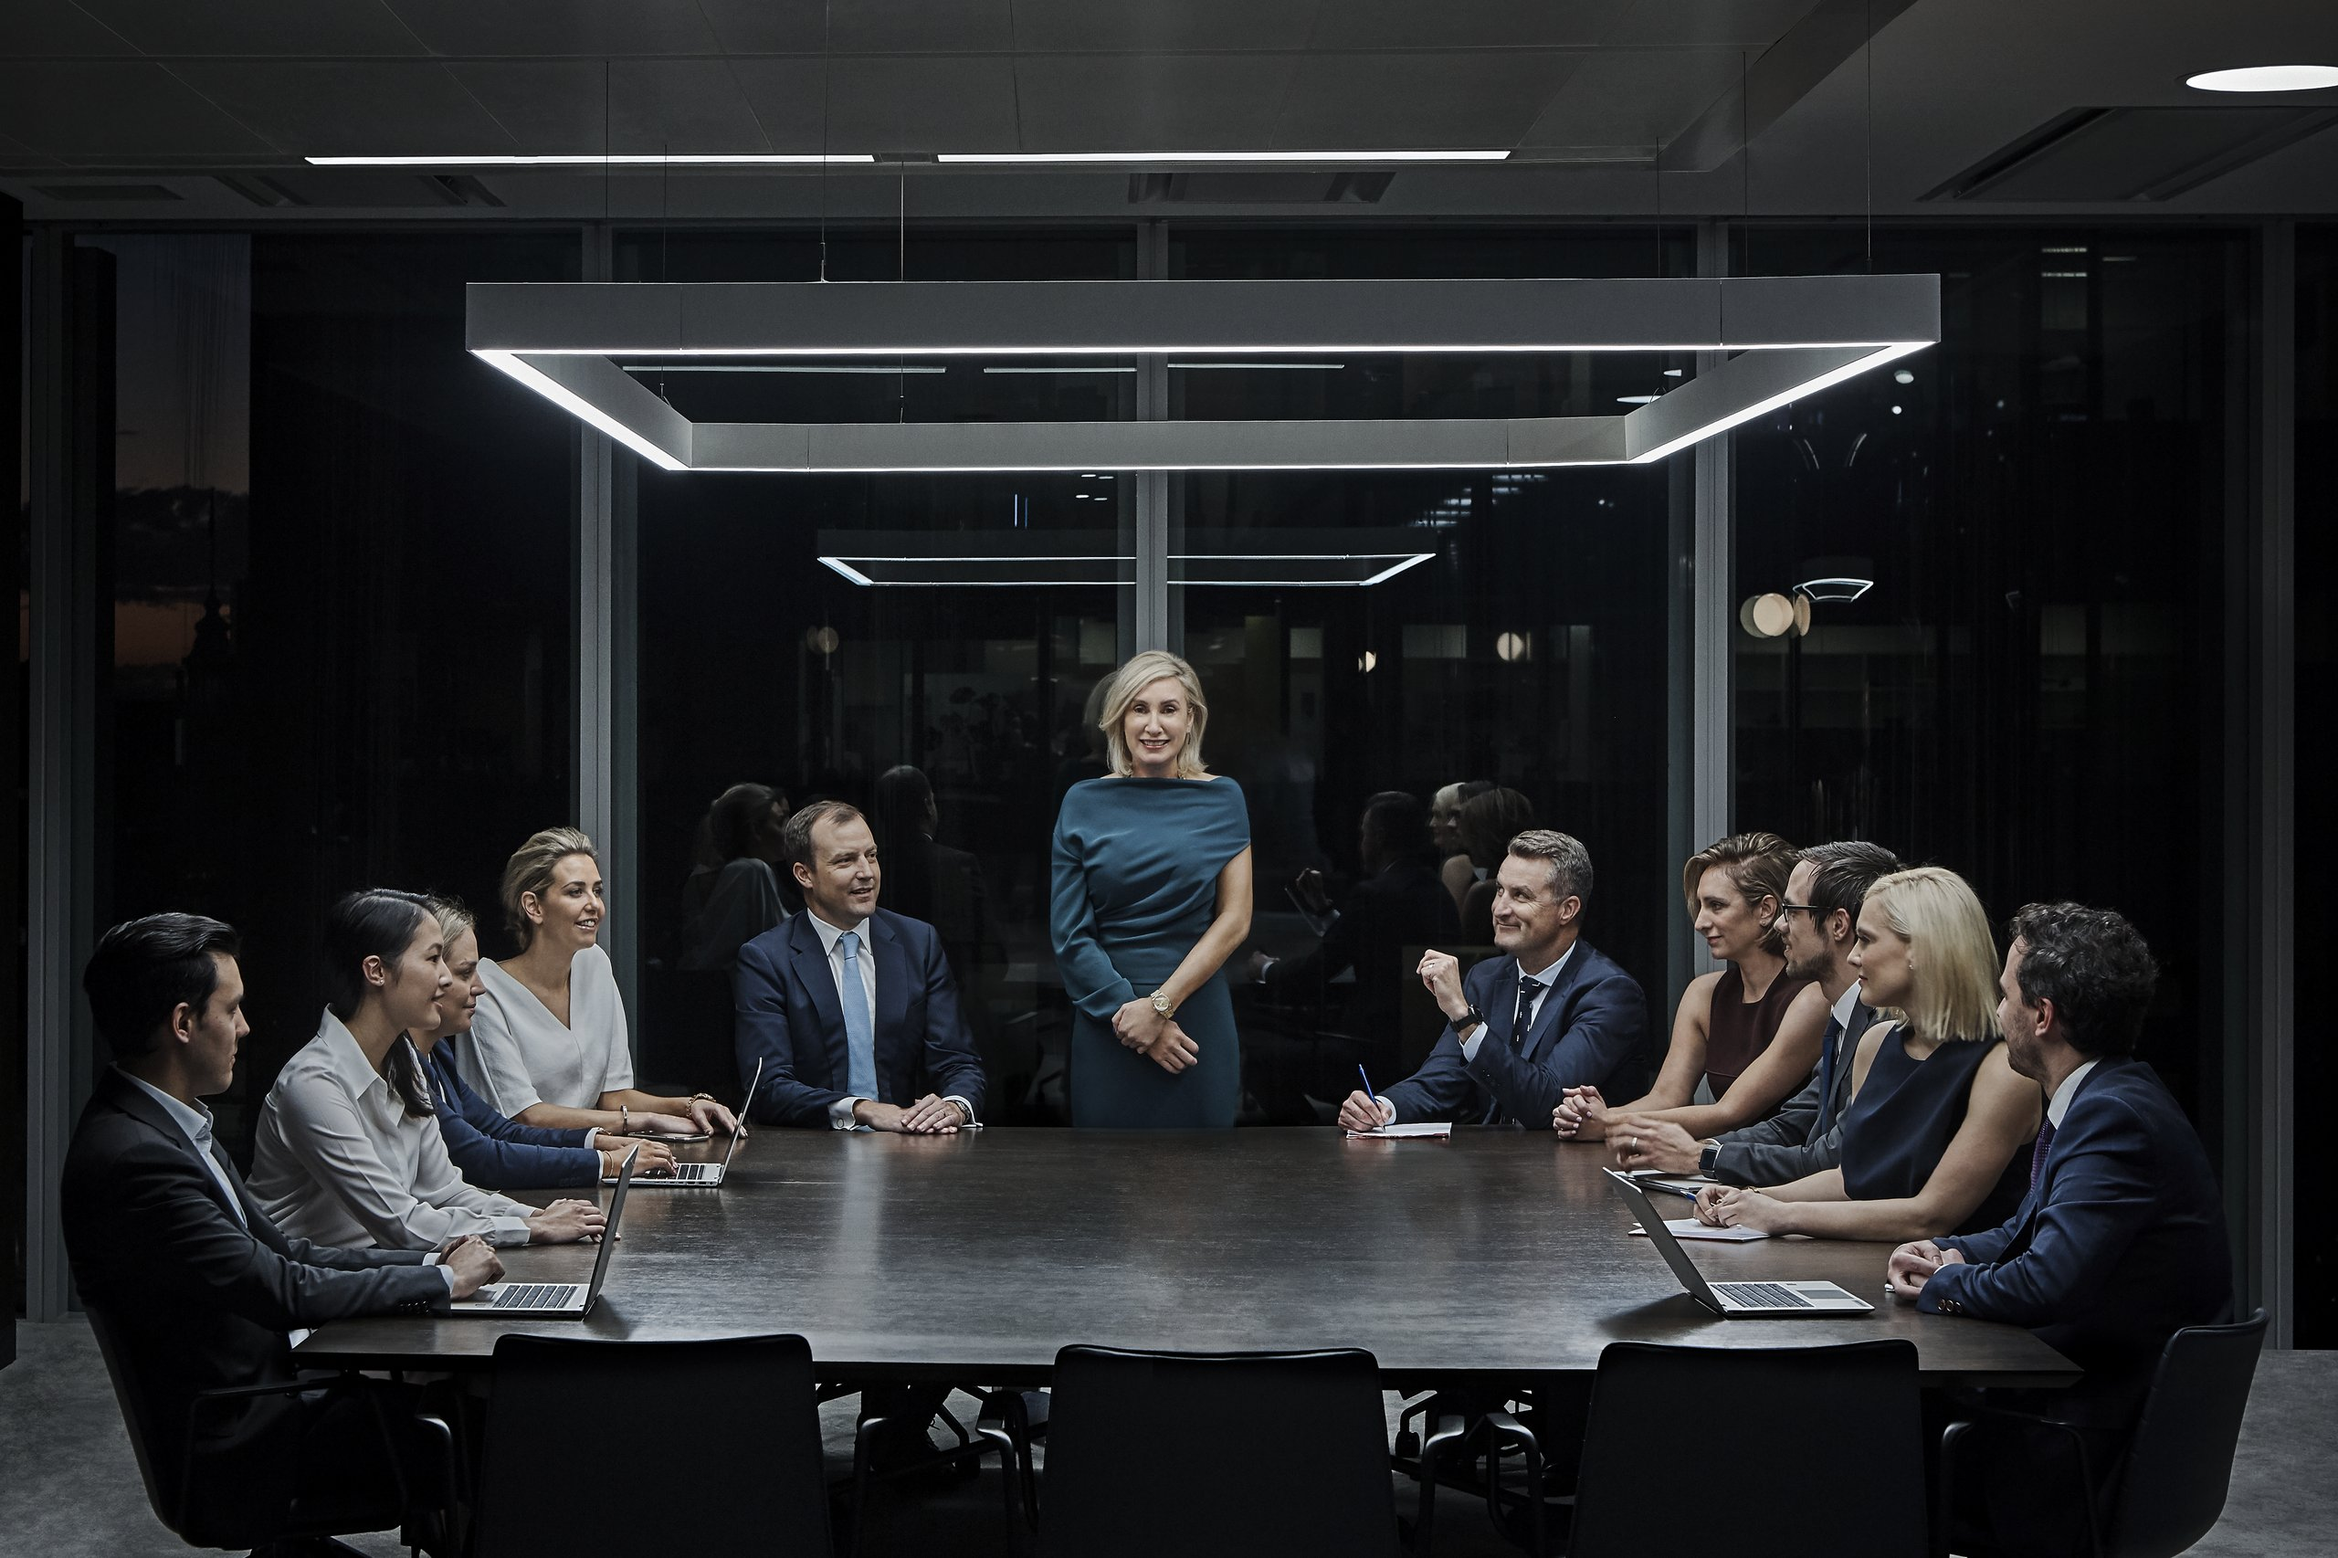
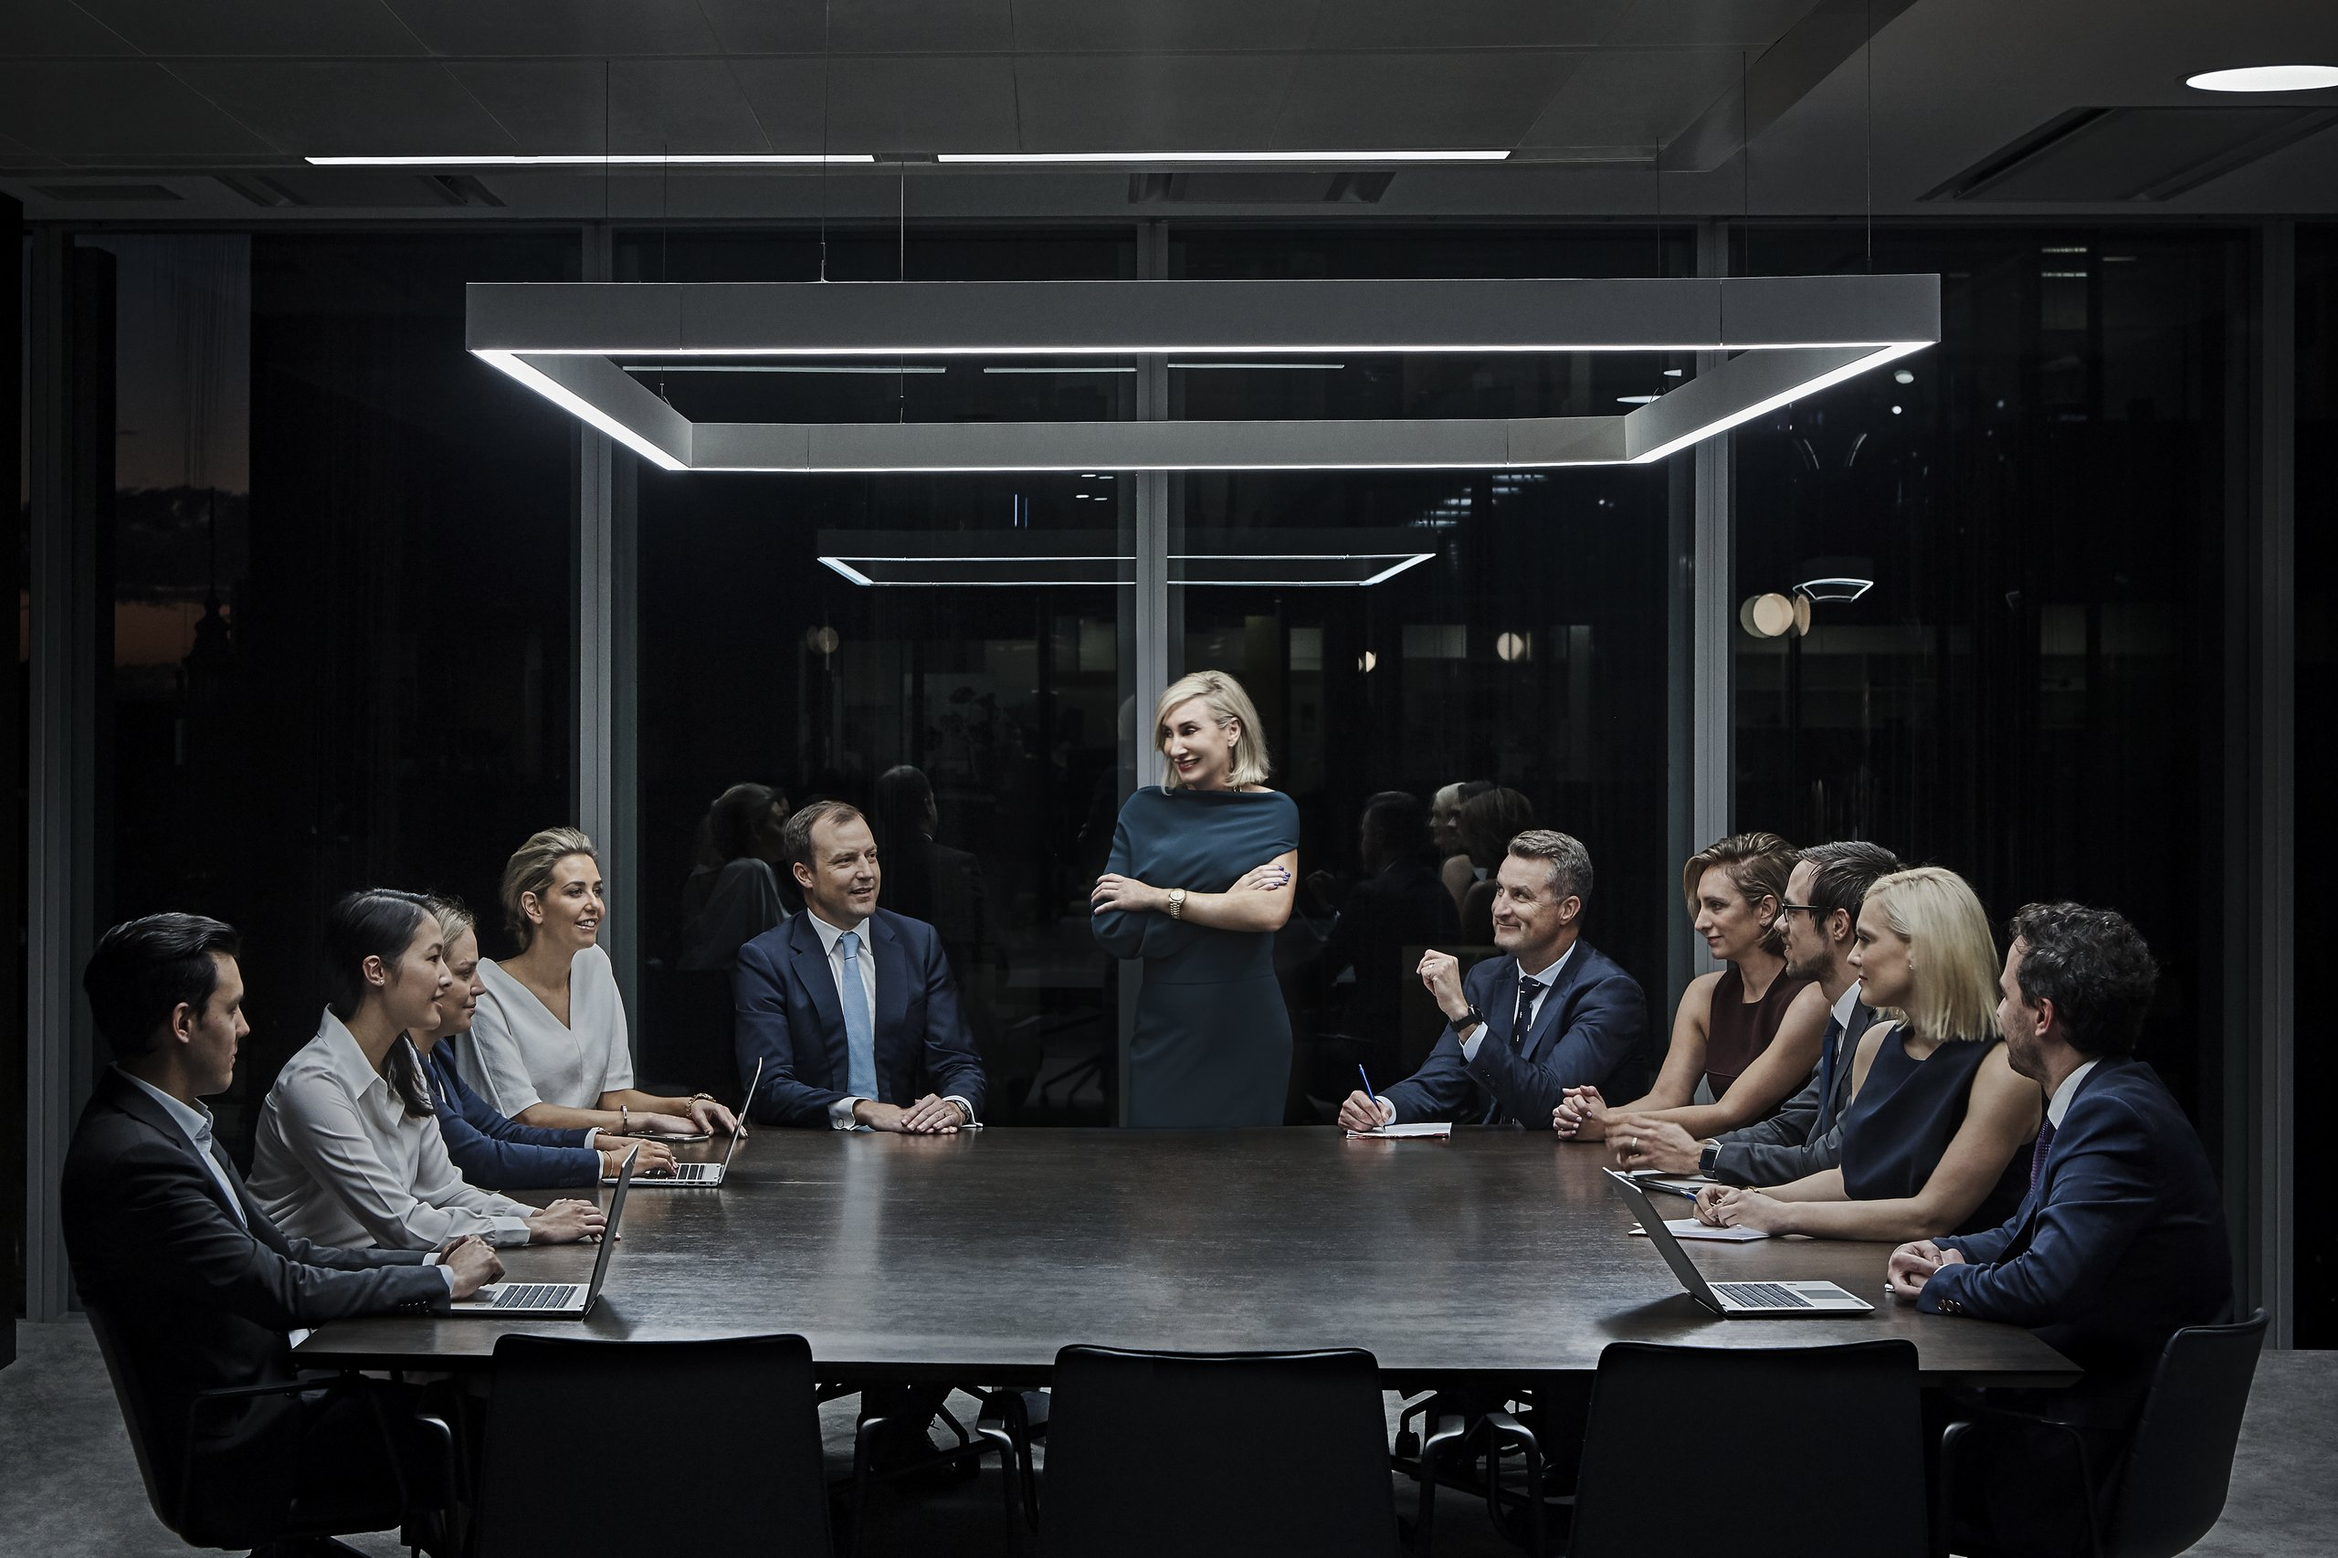
style: align type scale to design doc + swap hero to ALT-3 + drop gold
Hero image:
- Swap the boardroom photo to 10_870-ALT-3-HERO-FINAL (Amanda standing,
  smiling — the shot the client preferred)

Typography — aligned to banton design spec v3 (desktop / mobile):
- Display Hero:   72px / 42px  (was 32px on mobile — below 40px floor)
- H1 section:     40-44px / 28-32px
- H2 / card:      22-24px / 18-20px
- Stat number:    44px / 32px   (was 24/18px — way under spec)
- Eyebrow:        11px / 10px, letter-spacing 0.12em
- Body:           15-16px / 15px, line-height 1.7

All H2 titles across Stats, PracticeAreas, ClassActions, About, Team,
Technology, Awards, Contact now use a single responsive ramp:
  text-[28px] sm:text-3xl md:text-[40px] lg:text-[44px]

Weights normalised — 500 for H1/H2, 500 for card H3s (was semibold).

Remove gold accents outside Awards section:
- Home "Have a matter" closing CTA: drop gold FileText icon, use steel-blue
  divider with smaller icon

Per the design doc, gold #C9A84C is reserved strictly for award badges.

Changed region(s): [[0.4375, 0.4039, 0.5625, 0.7456]]

diff --git a/src/pages/Home.tsx b/src/pages/Home.tsx
@@ -62,22 +62,26 @@ export function Home() {
       </section>
 
       {/* Closing call */}
-      <section className="relative py-20 bg-[#1C3A64]">
+      <section className="relative py-16 md:py-20 bg-[#1C3A64]">
         <div className="max-w-4xl mx-auto px-6 lg:px-8 text-center">
           <ScrollReveal>
-            <FileText size={28} className="text-[#C9A84C] mx-auto mb-5" />
-            <h2 className="text-3xl md:text-4xl font-medium text-white leading-tight mb-5">
+            <div className="inline-flex items-center gap-2 mb-5">
+              <div className="h-px w-6 bg-[#8AAECE]" />
+              <FileText size={18} className="text-[#8AAECE]" />
+              <div className="h-px w-6 bg-[#8AAECE]" />
+            </div>
+            <h2 className="text-[28px] sm:text-3xl md:text-4xl lg:text-[44px] font-medium text-white leading-[1.15] mb-5 tracking-tight">
               Have a matter that demands <span className="italic-display text-[#6D8FB5]">extraordinary advocacy?</span>
             </h2>
-            <p className="text-white/70 text-base md:text-lg mb-8 max-w-xl mx-auto">
+            <p className="text-white/70 text-sm md:text-base lg:text-lg leading-[1.7] mb-8 max-w-xl mx-auto">
               Initial consultations are confidential and obligation-free. Tell us about your matter and we'll assess whether we can help.
             </p>
             <Link
               to="/contact"
-              className="inline-flex items-center gap-2 px-7 py-3.5 bg-white text-[#1C3A64] text-sm font-medium rounded-full hover:bg-[#EFF4F4] transition-colors tracking-[0.02em]"
+              className="inline-flex items-center gap-2 px-6 md:px-7 py-3 md:py-3.5 bg-white text-[#1C3A64] text-[13px] font-medium rounded-full hover:bg-[#EFF4F4] transition-colors tracking-[0.02em]"
             >
               Schedule a Consultation
-              <ArrowUpRight size={16} />
+              <ArrowUpRight size={14} />
             </Link>
           </ScrollReveal>
         </div>

diff --git a/src/components/sections/Stats.tsx b/src/components/sections/Stats.tsx
@@ -63,7 +63,7 @@ export function Stats() {
             Track Record
             <span className="w-5 h-px bg-[#1e3a5f]" />
           </span>
-          <h2 className="text-4xl md:text-5xl font-medium text-[#1C3A64] mt-4 mb-6 leading-[1.1] tracking-tight">
+          <h2 className="text-[28px] sm:text-3xl md:text-[40px] lg:text-[44px] font-medium text-[#1C3A64] mt-4 mb-6 leading-[1.1] tracking-tight">
             Numbers that
             <br />
             <span className="italic-display text-[#6D8FB5]">tell the story.</span>
@@ -95,7 +95,7 @@ export function Stats() {
                   </div>
 
                   {/* Counter */}
-                  <div className="text-4xl font-bold text-[#1e3a5f] mb-2">
+                  <div className="text-[32px] md:text-[40px] lg:text-[44px] font-semibold text-[#1C3A64] mb-2 leading-none">
                     <AnimatedCounter
                       value={stat.value}
                       prefix={stat.prefix}
@@ -105,10 +105,10 @@ export function Stats() {
                   </div>
 
                   {/* Label */}
-                  <div className="text-[#1e3a5f] text-sm font-semibold mb-3">{stat.label}</div>
+                  <div className="text-[#1C3A64] text-[13px] md:text-sm font-medium mb-3">{stat.label}</div>
 
                   {/* Description */}
-                  <p className="text-[#1e3a5f]/50 text-sm leading-relaxed">{stat.description}</p>
+                  <p className="text-[#555555] text-[13px] md:text-sm leading-[1.6]">{stat.description}</p>
                 </motion.div>
               </ScrollReveal>
             )

diff --git a/src/components/sections/Hero.tsx b/src/components/sections/Hero.tsx
@@ -83,7 +83,7 @@ export function Hero() {
           initial={{ opacity: 0, y: 30 }}
           animate={{ opacity: 1, y: 0 }}
           transition={{ duration: 0.9, delay: 0.35, ease: [0.21, 0.47, 0.32, 0.98] }}
-          className="text-[32px] sm:text-4xl md:text-5xl lg:text-[64px] xl:text-[72px] font-light leading-[1.05] tracking-tight mb-5 md:mb-6"
+          className="text-[42px] sm:text-5xl md:text-6xl lg:text-[64px] xl:text-[72px] font-light leading-[1.05] tracking-tight mb-5 md:mb-6"
         >
           <span className="text-white">Strategic</span>
           <br />
@@ -146,9 +146,9 @@ export function Hero() {
             { value: '50+', label: 'Class Actions' },
             { value: '6', label: 'Courts We Appear In' },
           ].map((stat) => (
-            <div key={stat.label} className="bg-[#1C3A64]/60 backdrop-blur-sm px-3 py-3 md:px-6 md:py-5 text-center">
-              <div className="text-lg md:text-2xl font-bold text-white mb-0.5 md:mb-1">{stat.value}</div>
-              <div className="text-[#8AAECE] text-[9px] md:text-[10px] tracking-wider uppercase leading-tight">{stat.label}</div>
+            <div key={stat.label} className="bg-[#1C3A64]/60 backdrop-blur-sm px-3 py-4 md:px-6 md:py-5 text-center">
+              <div className="text-[28px] md:text-[36px] lg:text-[44px] font-semibold text-white mb-1 leading-none">{stat.value}</div>
+              <div className="text-[#8AAECE] text-[10px] md:text-[11px] tracking-[0.1em] md:tracking-[0.12em] uppercase leading-tight mt-2">{stat.label}</div>
             </div>
           ))}
         </motion.div>

diff --git a/src/components/sections/Team.tsx b/src/components/sections/Team.tsx
@@ -109,7 +109,7 @@ export function Team() {
               <span className="w-5 h-px bg-[#1e3a5f]" />
               Our Team
             </span>
-            <h2 className="text-4xl md:text-5xl font-medium text-[#1C3A64] leading-[1.1] tracking-tight">
+            <h2 className="text-[28px] sm:text-3xl md:text-[40px] lg:text-[44px] font-medium text-[#1C3A64] leading-[1.1] tracking-tight">
               The lawyers
               <br />
               <span className="italic-display text-[#6D8FB5]">behind the wins.</span>
@@ -160,7 +160,7 @@ export function Team() {
                 {/* Body */}
                 <div className="p-6 flex-1 flex flex-col">
                   <div className="flex items-start justify-between mb-1">
-                    <h3 className="text-[#1e3a5f] font-semibold text-lg leading-tight">{member.name}</h3>
+                    <h3 className="text-[#1C3A64] font-medium text-[18px] md:text-[20px] leading-[1.2]">{member.name}</h3>
                     <motion.a
                       href="#"
                       whileHover={{ scale: 1.1 }}

diff --git a/src/components/sections/PracticeAreas.tsx b/src/components/sections/PracticeAreas.tsx
@@ -62,7 +62,7 @@ export function PracticeAreas() {
               <span className="w-5 h-px bg-[#1e3a5f]" />
               What We Do
             </span>
-            <h2 className="text-4xl md:text-5xl font-medium text-[#1C3A64] leading-[1.1] tracking-tight">
+            <h2 className="text-[28px] sm:text-3xl md:text-[40px] lg:text-[44px] font-medium text-[#1C3A64] leading-[1.1] tracking-tight">
               Practice
               <br />
               <span className="italic-display text-[#6D8FB5]">areas.</span>
@@ -111,7 +111,7 @@ export function PracticeAreas() {
                       >
                         {practice.tagline}
                       </span>
-                      <h3 className="text-2xl font-semibold text-[#1e3a5f]">{practice.title}</h3>
+                      <h3 className="text-[20px] md:text-[22px] lg:text-[24px] font-medium text-[#1C3A64] leading-[1.2]">{practice.title}</h3>
                     </div>
 
                     {/* Description */}

diff --git a/src/components/sections/About.tsx b/src/components/sections/About.tsx
@@ -51,7 +51,7 @@ export function About() {
                 <span className="w-5 h-px bg-[#1e3a5f]" />
                 About the Firm
               </span>
-              <h2 className="text-4xl md:text-5xl font-medium text-[#1C3A64] leading-[1.1] tracking-tight mb-8">
+              <h2 className="text-[28px] sm:text-3xl md:text-[40px] lg:text-[44px] font-medium text-[#1C3A64] leading-[1.1] tracking-tight mb-8">
                 Founded with
                 <br />
                 <span className="italic-display text-[#6D8FB5]">a singular purpose.</span>

diff --git a/src/components/sections/ClassActions.tsx b/src/components/sections/ClassActions.tsx
@@ -139,7 +139,7 @@ export function ClassActions() {
             Case Studies
           </span>
           <div className="flex flex-col lg:flex-row lg:items-end justify-between gap-6">
-            <h2 className="text-4xl md:text-5xl font-medium text-[#1C3A64] leading-[1.1] tracking-tight">
+            <h2 className="text-[28px] sm:text-3xl md:text-[40px] lg:text-[44px] font-medium text-[#1C3A64] leading-[1.1] tracking-tight">
               Landmark
               <br />
               <span className="italic-display text-[#6D8FB5]">class actions.</span>

diff --git a/src/components/sections/Awards.tsx b/src/components/sections/Awards.tsx
@@ -47,7 +47,7 @@ export function Awards() {
             Awards & Recognition
             <span className="w-5 h-px bg-[#1e3a5f]" />
           </span>
-          <h2 className="text-4xl md:text-5xl font-medium text-[#1C3A64] leading-[1.1] tracking-tight mb-6">
+          <h2 className="text-[28px] sm:text-3xl md:text-[40px] lg:text-[44px] font-medium text-[#1C3A64] leading-[1.1] tracking-tight mb-6">
             Ranked and recognised
             <br />
             <span className="italic-display text-[#6D8FB5]">by those who know.</span>

diff --git a/src/components/sections/Contact.tsx b/src/components/sections/Contact.tsx
@@ -77,7 +77,7 @@ export function Contact() {
             Get in Touch
             <span className="w-5 h-px bg-[#1e3a5f]" />
           </span>
-          <h2 className="text-4xl md:text-5xl font-medium text-[#1C3A64] leading-[1.1] tracking-tight mb-6">
+          <h2 className="text-[28px] sm:text-3xl md:text-[40px] lg:text-[44px] font-medium text-[#1C3A64] leading-[1.1] tracking-tight mb-6">
             Your case starts
             <br />
             <span className="italic-display text-[#6D8FB5]">with a conversation.</span>

diff --git a/src/components/sections/Technology.tsx b/src/components/sections/Technology.tsx
@@ -54,7 +54,7 @@ export function Technology() {
             Strategy & Technology
             <span className="w-5 h-px bg-[#1e3a5f]" />
           </span>
-          <h2 className="text-4xl md:text-5xl font-medium text-[#1C3A64] leading-[1.1] tracking-tight mb-6">
+          <h2 className="text-[28px] sm:text-3xl md:text-[40px] lg:text-[44px] font-medium text-[#1C3A64] leading-[1.1] tracking-tight mb-6">
             Law meets
             <br />
             <span className="italic-display text-[#6D8FB5]">innovation.</span>
